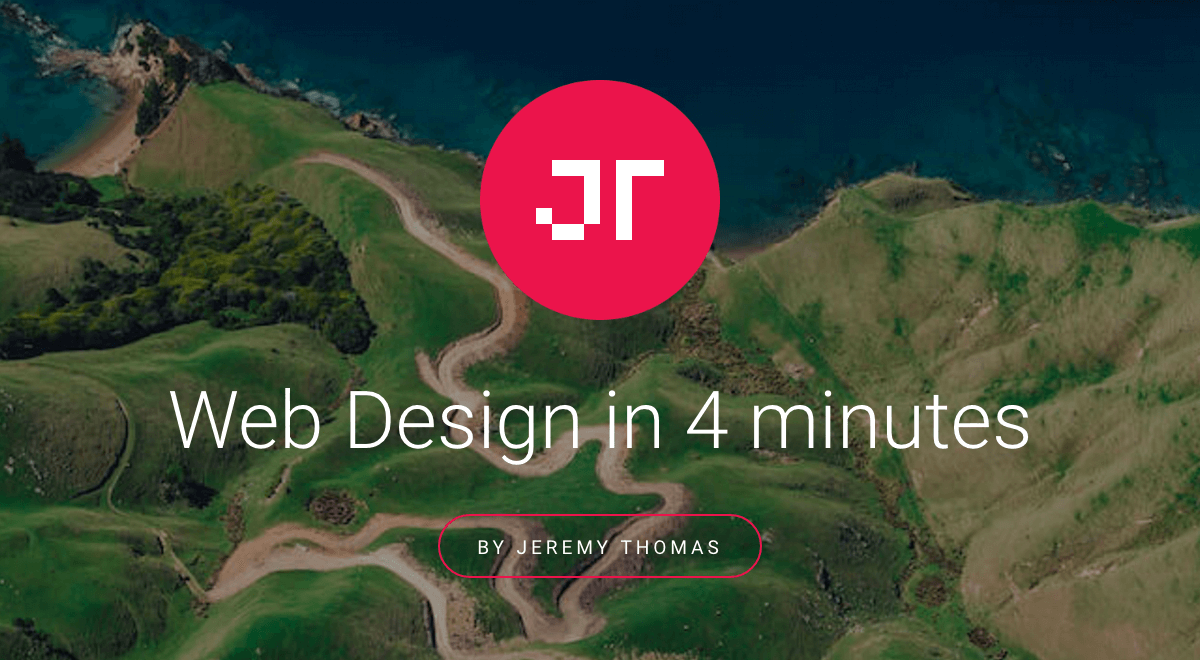
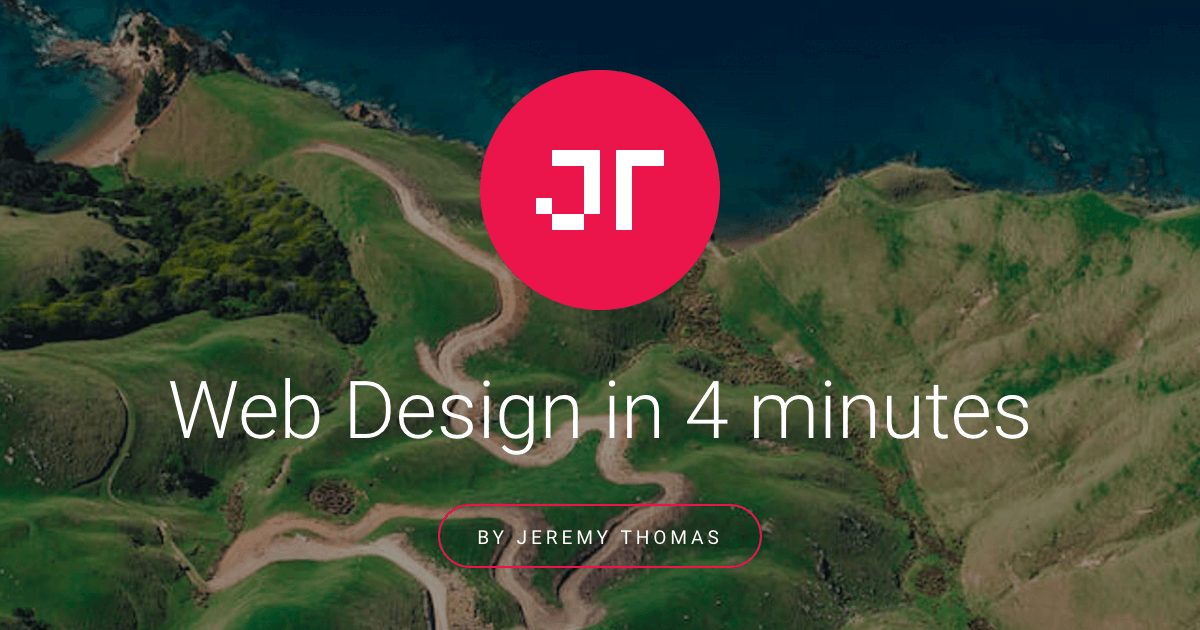
Use better image ratio

diff --git a/index.html b/index.html
@@ -10,8 +10,8 @@
     <meta property="og:description" content="Learn the basics of web design in 4 minutes with this interactive tutorial.">
     <meta property="og:image" content="http://jgthms.com/web-design-in-4-minutes/web-design-in-4-minutes.png">
     <meta property="og:image:type" content="image/png">
-    <meta property="og:image:width" content="600">
-    <meta property="og:image:height" content="330">
+    <meta property="og:image:width" content="1200">
+    <meta property="og:image:height" content="630">
 
     <meta name="twitter:card" content="summary_large_image">
     <meta name="twitter:site" content="@jgthms">
